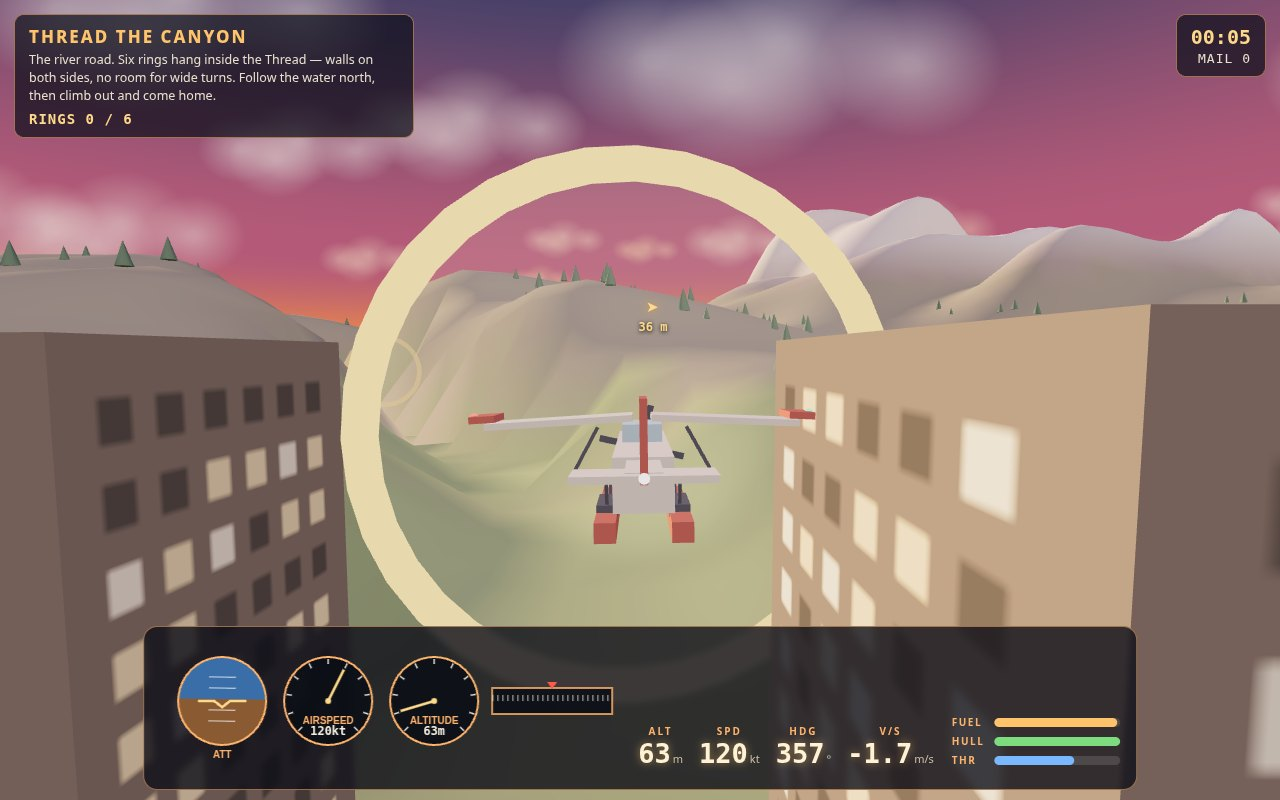
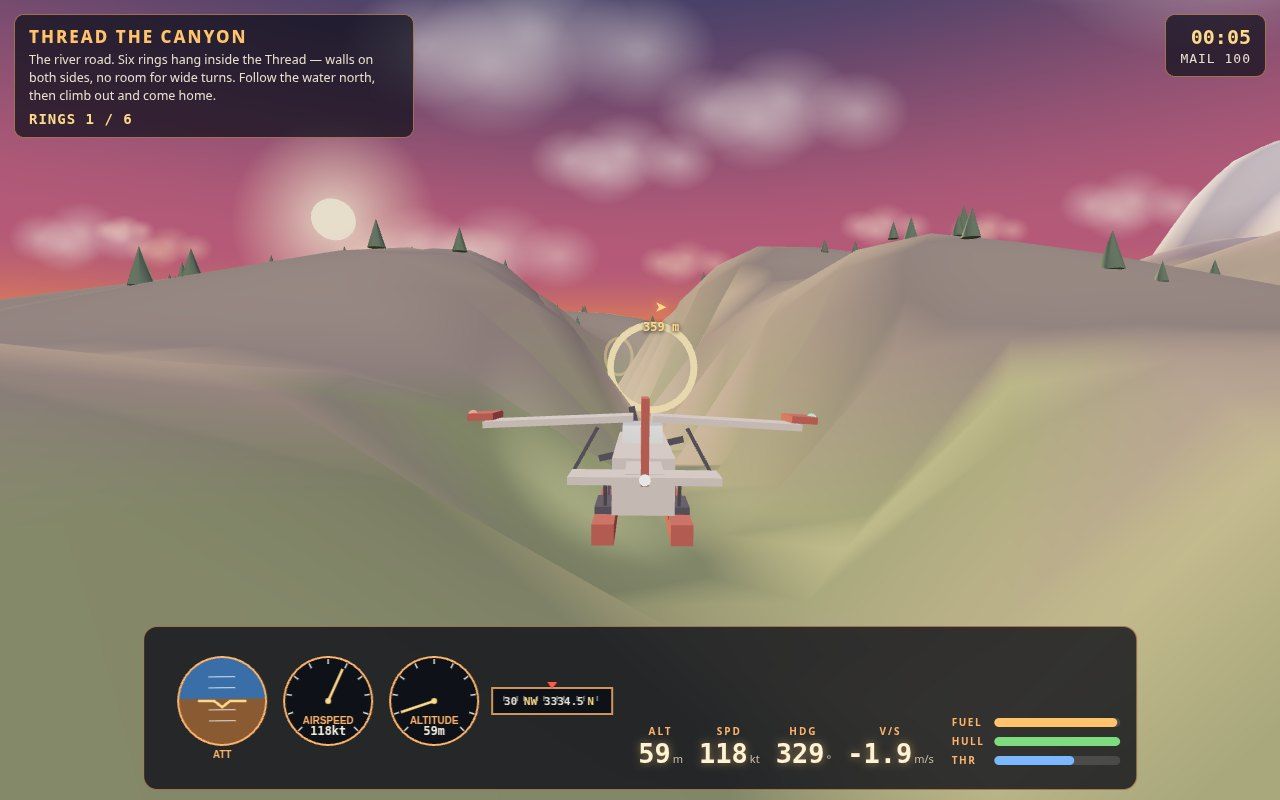
Compass tens only at the 30s (no decimal smear); cover staged over the strip

diff --git a/game/src/main.js b/game/src/main.js
@@ -411,7 +411,7 @@ function autopilotInput() {
 
 function stageShotScene(name) {
   const scenes = {
-    cover: { mission: 0, x: -260, y: 118, z: 520, headingDeg: 0, speed: 47, throttle: 0.6 },
+    cover: { mission: 0, x: -262, y: 112, z: 780, headingDeg: 0, speed: 47, throttle: 0.6 },
     rings: { mission: 2, x: 602, y: 70, z: 430, headingDeg: 350, speed: 52, throttle: 0.64 },
     city: { mission: 1, x: 120, y: 128, z: 640, headingDeg: 74, speed: 54, throttle: 0.66 },
     landing: { mission: 0, x: -258, y: 55, z: 1250, headingDeg: 0, speed: 35, throttle: 0.3 },

diff --git a/game/src/hud.js b/game/src/hud.js
@@ -159,7 +159,8 @@ export function createHud(root) {
       if (deg % 45 === 0) {
         g.fillStyle = '#ffd98a';
         g.fillText(COMPASS_POINTS[deg / 45], x, cy + 4);
-      } else if (deg % 15 === 0) {
+      } else if (deg % 30 === 0) {
+        // Compass tens are only whole at the 30s: 03, 06, 12 ... 33.
         g.fillStyle = '#e8e4da';
         g.fillText(String(deg / 10).padStart(2, '0'), x, cy + 4);
       } else {
